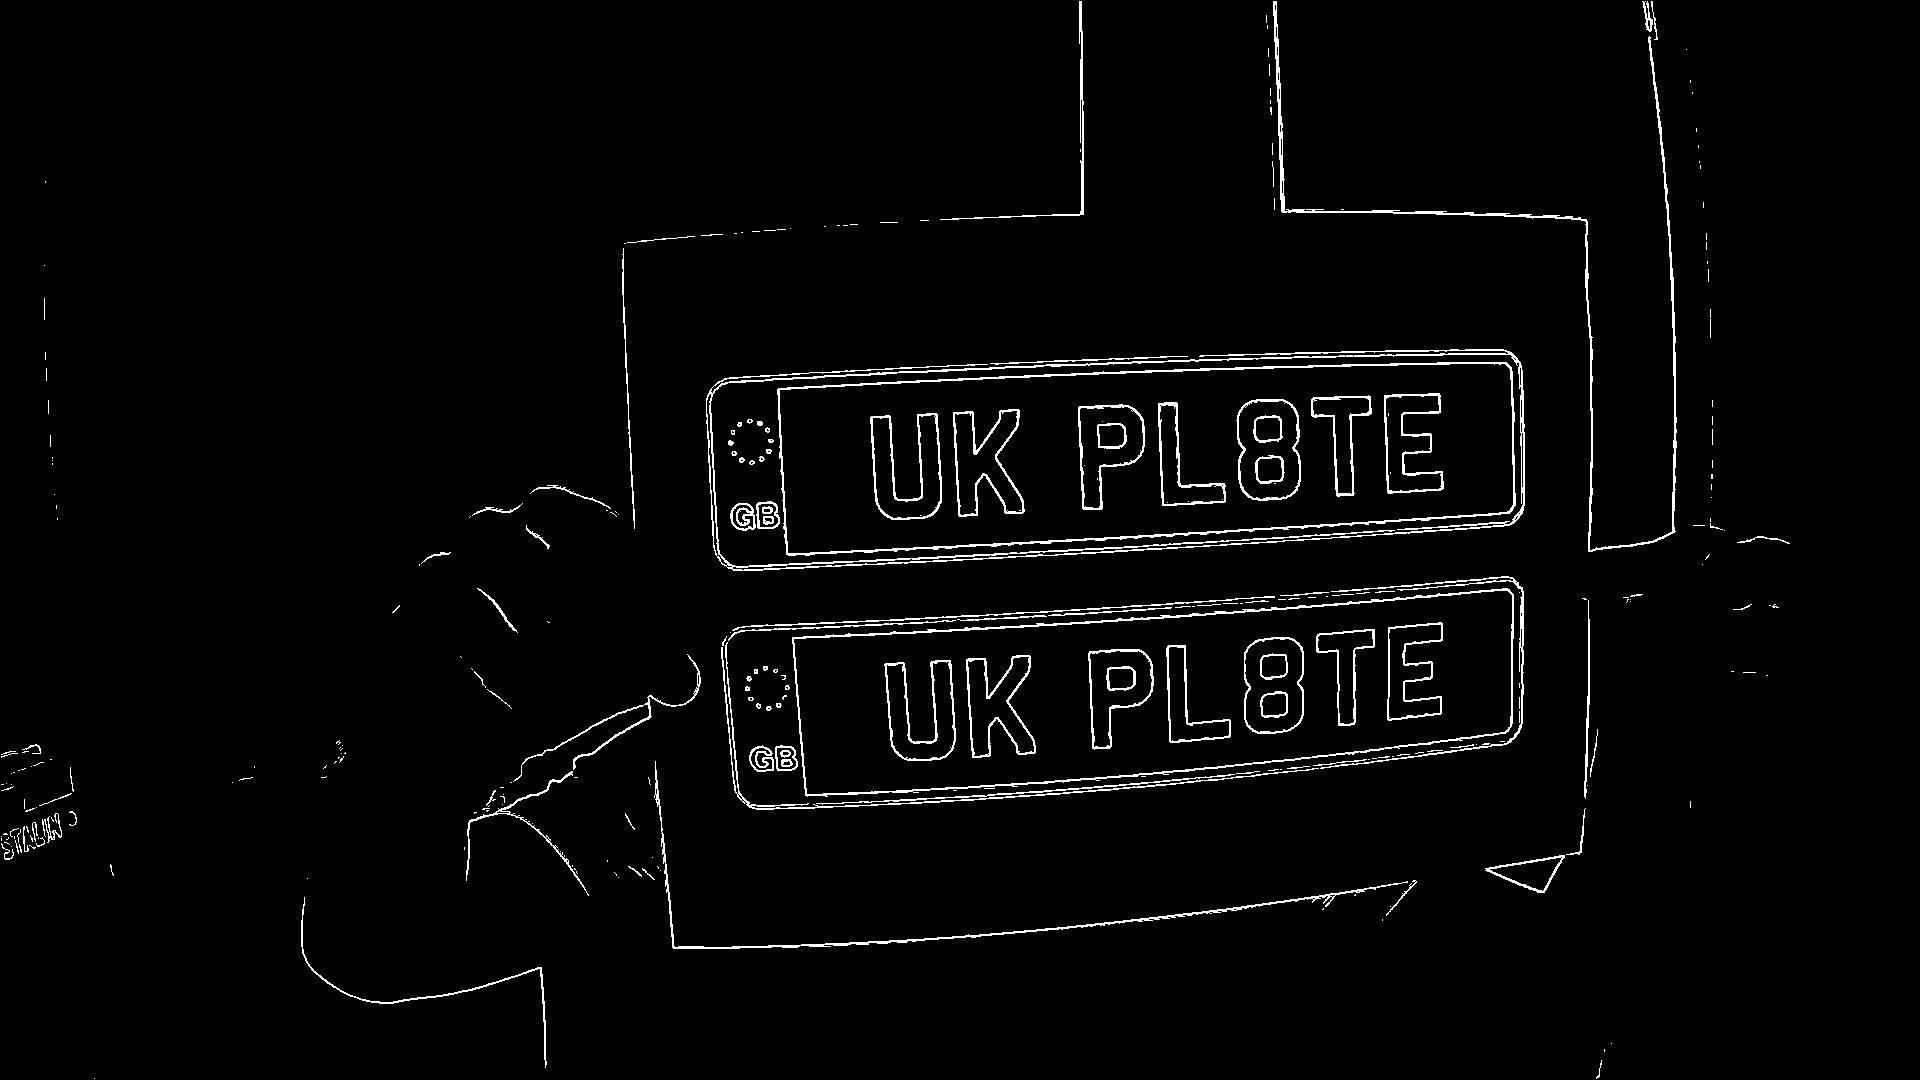
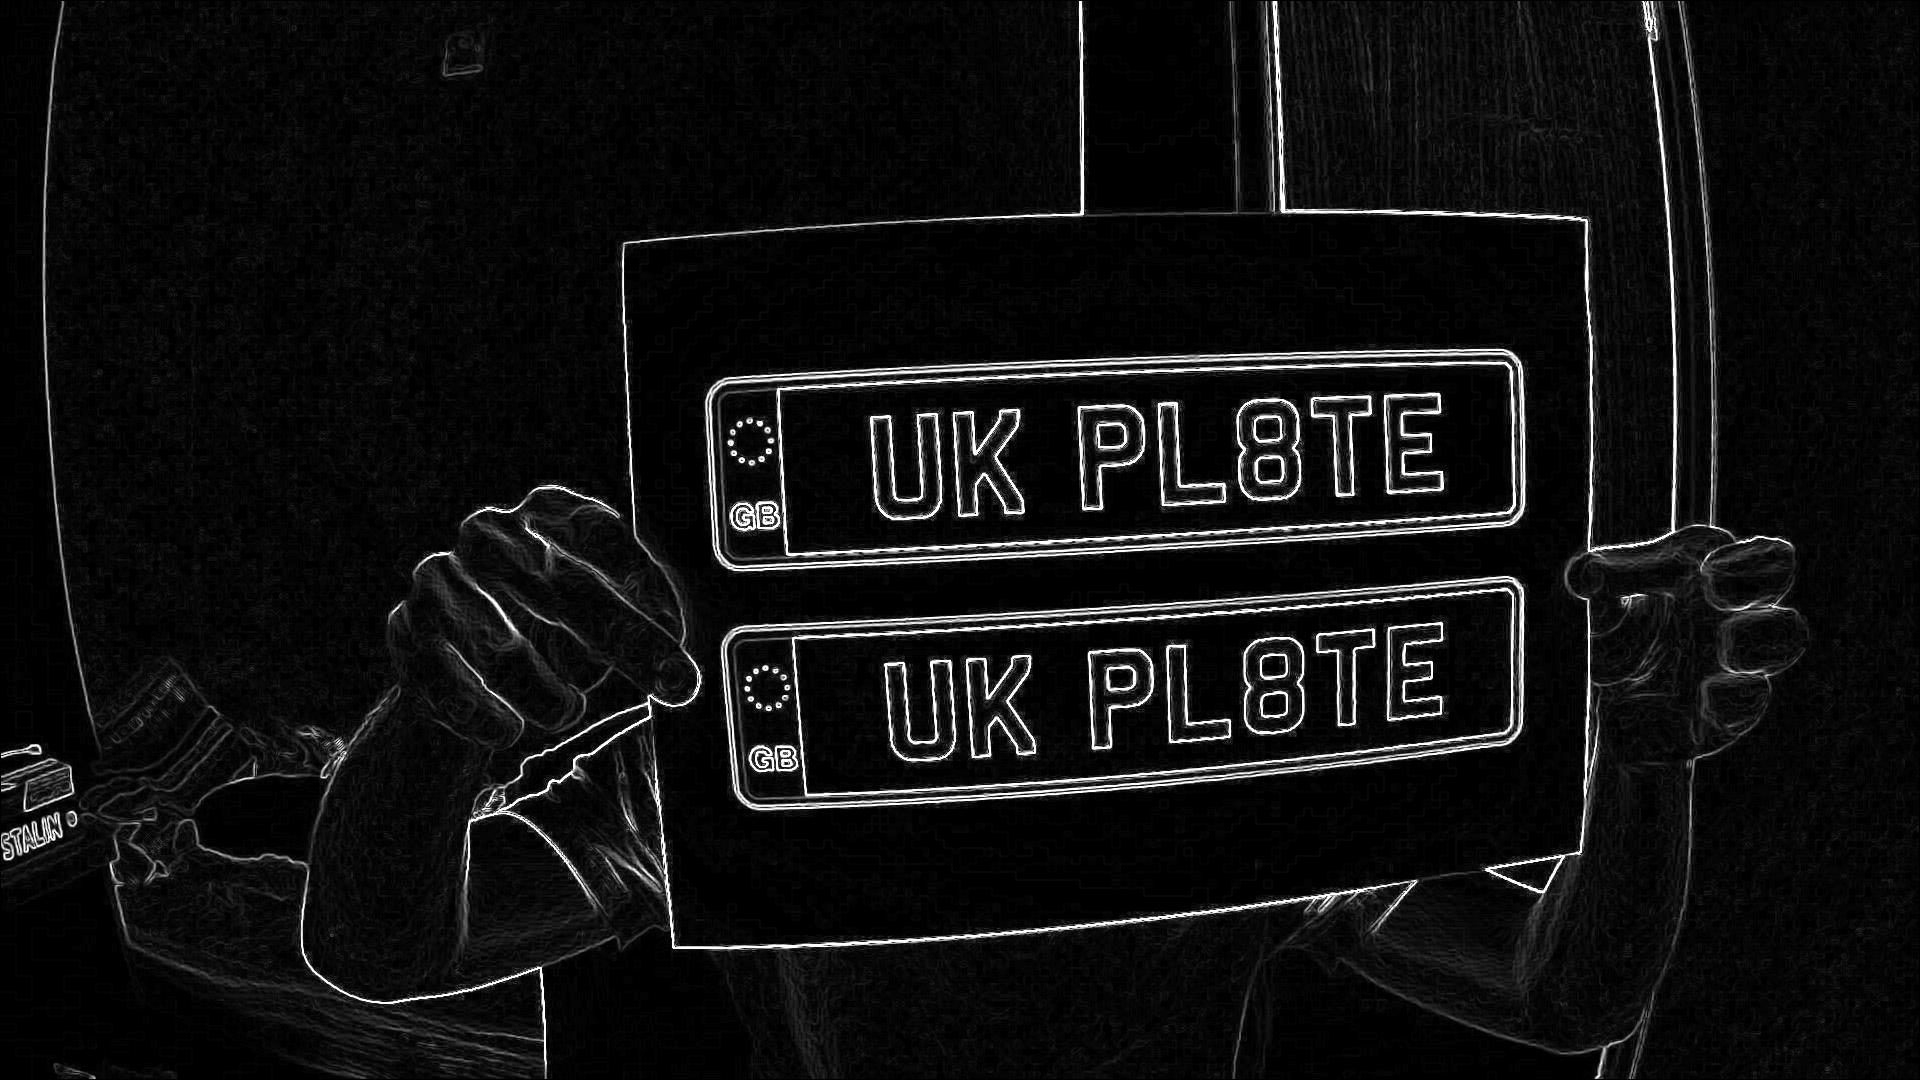
finished project brief and commented on microprocessor memory needs

diff --git a/Initial tests/Edge detection/sobel_filter.m b/Initial tests/Edge detection/sobel_filter.m
@@ -6,7 +6,7 @@ s_filter_hor = [-1 0 1; -2 0 2; -1 0 1];
 s_filter_ver = [-1 -2 -1; 0 0 0; 1 2 1];
 
 %greyscale imput image
-inputImg = rgb2gray(inputImg);
+inputImg = im2gray(inputImg);
 inputImg = double(inputImg);
 
 %create output image
@@ -37,14 +37,14 @@ end
 % never seems to create values outside of 0-255, need to see why
 filteredImg = uint8(filteredImg);
 
-for i = 1:size(filteredImg, 1)
-    for j = 1:size(filteredImg, 2)
-        if filteredImg(i,j) > threshold
-            filteredImg(i,j) = 255;
-        else
-            filteredImg(i,j) = 0;
-    end
-end
+% for i = 1:size(filteredImg, 1)
+%     for j = 1:size(filteredImg, 2)
+%         if filteredImg(i,j) > threshold
+%             filteredImg(i,j) = 255;
+%         else
+%             filteredImg(i,j) = 0;
+%     end
+% end
 
 end
 

diff --git a/Initial tests/Edge detection/filter_testing.m b/Initial tests/Edge detection/filter_testing.m
@@ -1,7 +1,15 @@
 clear;
 I = imread('testCleanPlate.jpg');
 %I = flip(flip(I, 1), 2);
-I_edge = sobel_filter(I, 190);
+I_edge = sobel_filter(I, 170);
+
+stats = [regionprops(I_edge); regionprops(not(I_edge))];
 
 imshow(I_edge);
+% hold on;
+% for i = 1:numel(stats)
+%     rectangle('Position', stats(i).BoundingBox, ...
+%     'Linewidth', 1, 'EdgeColor', 'r', 'LineStyle', '--');
+% end
+
 imwrite(I_edge, 'out.jpg');
